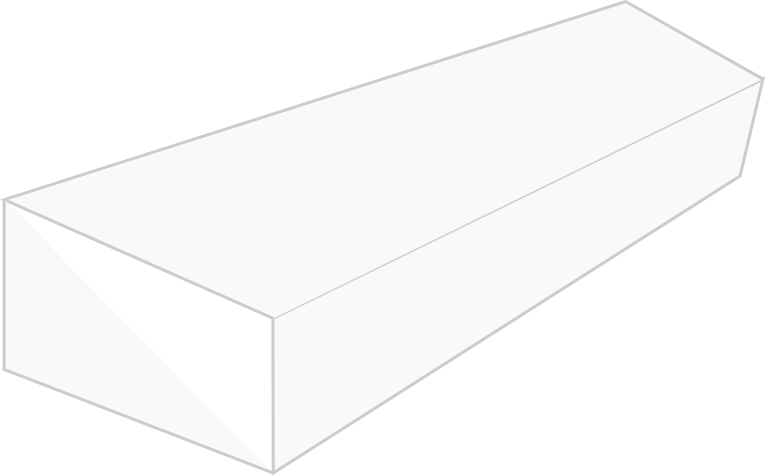
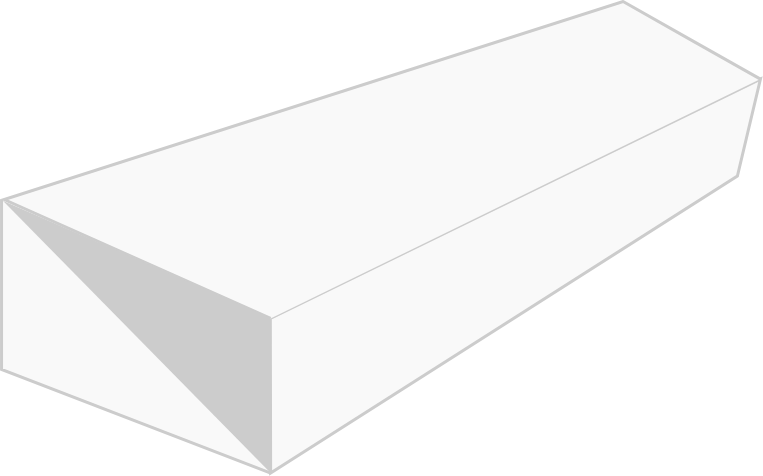
add :: parallax effect in skills and project section

diff --git a/src/App.js b/src/App.js
@@ -9,6 +9,7 @@ import me from './Images/me.jpg'
 import shape1 from './Images/shape1.png'
 import shape2 from './Images/shape2.png'
 import shape3 from './Images/shape3.png'
+import shape4 from './Images/shape4.png'
 import project1 from './Images/project1.png'
 import project2 from './Images/project2.png'
 
@@ -25,6 +26,9 @@ import 'react-toastify/dist/ReactToastify.css';
 
 // CUSTOM COMPONENTS
 import { Footer } from './Components'
+
+// DEPENDENCIES
+import { Link } from 'react-scroll'
 
 
 function App() {
@@ -56,15 +60,13 @@ function App() {
     <div className='bg'>
 
 
-      {/* <div className='menu'>
-        <div className='another'>
-          <span className='item'>ABOUT</span>
-          <span className='item'>UTUBE</span>
-          <span className='item'>SKILLS</span>
-          <span className='item'>PROJECTS</span>
-          <span className='item'>GET IN TOUCH</span>          
-        </div>
-      </div> */}
+        <section className='menu'>
+          <span className='item-wrapper'><Link smooth={true} duration={1000} to='aboutme' className='item'>ABOUT</Link></span>
+          <span className='item-wrapper'><Link smooth={true} duration={1000} to='youtube' className='item'>UTUBE</Link></span>
+          <span className='item-wrapper'><Link smooth={true} duration={1000} to='skills' className='item'>SKILLS</Link></span>
+          <span className='item-wrapper'><Link smooth={true} duration={1000} to='project' className='item'>PROJECTS</Link></span>
+          <span className='item-wrapper'><Link smooth={true} duration={1000} to='contact' className='item'>GET IN TOUCH</Link></span>
+        </section>
 
 
       <section className="hero_section">
@@ -74,7 +76,7 @@ function App() {
 
 
 
-      <section className='aboutme_section'>
+      <section id='aboutme' className='aboutme_section'>
         <RellaxWrapper speed={-2}>
           <div className='content_col'>
             <h1 className='heading'>ABOUT ME</h1>
@@ -92,7 +94,7 @@ function App() {
 
 
 
-      <section className='youtube_section'>
+      <section id='youtube' className='youtube_section'>
         <RellaxWrapper speed={2.2}><img className='img_shape img_shape_2' src={shape3} alt='shape' /></RellaxWrapper>        
         <ReactPlayer className='video' light url="https://www.youtube.com/watch?v=vgU4cB26_BU" />
         <p className='para'>I share my knowledge on my YouTube Channel where I teach Android and Ktor</p>
@@ -100,24 +102,27 @@ function App() {
 
 
 
-      <section className="skills_section">
+      <section id='skills' className="skills_section">
+        <RellaxWrapper speed={2}><img className='img_shape dimond_img_1' src={shape4} alt='shape 1 dimond' /></RellaxWrapper>
         <h1 className='heading'>SKILLS</h1>
         <div className="bar expert" data-skill="Kotlin"></div>
         <div className="bar advanced" data-skill="Android Studio"></div>
         <div className="bar intermediate" data-skill="Git GitHub"></div>
         <div className="bar basic" data-skill="Firebase"></div>
         <div className="bar learning" data-skill="Firebase"></div>
+        <RellaxWrapper speed={2}><img className='img_shape dimond_img_2' src={shape4} alt='shape 1 dimond' /></RellaxWrapper>
       </section>
+      
 
 
 
-      <section className="project_section">
+      <section id='project' className="project_section">
         <h1 className='heading'>PROJECTS</h1>
 
         <div className='row row_1'>
             <div className='desc_col'>
               <RellaxWrapper speed={-1}>
-                <h2 className='proj_name'>UpTodd</h2>
+                <RellaxWrapper speed={-0.2}><h2 className='proj_name proj_name_1'>UpTodd</h2></RellaxWrapper>
                 <h3 className='proj_designation'>Android Developer</h3>
                 <p className='para'>Built an app for the company which required critical skills such as WorkManager, Kotlin Coroutines, Room and Dependency Injection</p>
                 <div className='stack_btns'>
@@ -133,16 +138,16 @@ function App() {
 
         <div className='row row_2'>
           <div className='img_col'>
-            <img className='img_main' src={project2} alt='project 2' />
+            <img className='img_main' src={project2} alt='project 1' />
           </div>
           <div className='desc_col'>
-            <RellaxWrapper speed={-1}>
-              <h2 className='proj_name'>ASSIGNMENTS</h2>
+            <RellaxWrapper speed={-0.8}>
+              <RellaxWrapper speed={-0.2}><h2 className='proj_name proj_name_2'>Assignment</h2></RellaxWrapper>
               <h3 className='proj_designation'>Android Developer</h3>
               <p className='para'>Built an app using Firebase during the 2020 lockdown to help teachers and students to exchange assignments and solutions</p>
               <div className='stack_btns'>
                 <button>KOTLIN</button>
-                <a href='https://play.google.com/store/apps/details?id=my.app.assignments' target="_blank" rel="noreferrer"><button>VIEW ON PLAYSTORE</button></a>
+                <a href='https://play.google.com/store/apps/details?id=com.uptodd.uptoddapp' target="_blank" rel="noreferrer"><button>VIEW ON PLAYSTORE</button></a>
               </div>
             </RellaxWrapper>
           </div>
@@ -150,7 +155,7 @@ function App() {
       </section>
 
 
-      <section className='contact_section'>
+      <section id='contact' className='contact_section'>
         <RellaxWrapper speed={0.5} zIndex={-1}><img className='img_shape img_shape_4' src={shape2} alt='shape 3' /></RellaxWrapper>
         <div className='content_col'>
           <RellaxWrapper speed={0} zIndex={0}>

diff --git a/src/App.scss b/src/App.scss
@@ -54,32 +54,51 @@ body {
 
 body::-webkit-scrollbar {
     width: 10px;
-    background-color: darkgrey;
+    background-color: #acacac;
+    border: 1px #acacac solid;
     
 }
 body::-webkit-scrollbar-thumb {
-    box-shadow: inset 0 0 6px rgba(0, 0, 0, 0.3);
-    background-color: gray;
+    background-color: #1f1f1f;
+    border-radius: 1rem;
 }
 
 
-.bg {
-}
 /* MENU */
 .menu {
     position: absolute;
-    width: 100vw;
-    height: 100vh;
-    right: 10rem;
-    top: -10rem;
-    background-color: rgba(0, 128, 0, 0.329);
+    top: -4rem;
+    right: -4rem;
     text-align: right;
-
-    .another {
-        // background-color: tomato;
-        width: 20rem;
+    .item-wrapper {
+        position: relative;
+        display: inline-block;
+        &:hover:before {
+            content: '';
+            display: block;
+            height: 90%;
+            width: 100%;
+            margin-left: -3px;
+            margin-right: -3px;
+            position: absolute;
+            background: #fff;
+            transform: rotate(2deg);
+            top: -6px;
+            left: -1px;
+            border-radius: 20% 25% 20% 24%;
+            padding: 10px 0 3px 10px;
+        }
+        .item {
+            position: relative;
+            margin: 20px;
+            cursor: pointer;
+            font-weight: 500;
+        }
     }
+    
 }
+
+
 
 
 
@@ -165,6 +184,26 @@ body::-webkit-scrollbar-thumb {
         margin-bottom: 1.2rem;
         text-shadow: 2px 2px #aaa;
     }
+
+    position: relative;
+    z-index: 1000;
+    .img_shape {
+        position: absolute;
+        &.dimond_img_1 {
+            top: 250px;
+            right: 80px;
+            height: 10rem;
+            width: 10rem;
+            z-index: -1;
+        }
+        &.dimond_img_2 {
+            bottom: -800px;
+            left: 80px;
+            height: 20rem;
+            width: 20rem;
+            transform: rotate(20deg);
+        }
+    }
 }
 @keyframes load{
     from {width: 0%}
@@ -227,13 +266,15 @@ body::-webkit-scrollbar-thumb {
             margin-top: 10rem;
         }
 
+
         .desc_col {
             flex: 5;
             & h2, & h3, & p {
                 margin-bottom: 10px;
             }
             .proj_name {
-                font-size: 2.8rem;
+                font-size: 8rem;
+                color: #0000004d;
             }
             .proj_designation {
                 font-size: 1.5rem;
@@ -264,15 +305,27 @@ body::-webkit-scrollbar-thumb {
                 height: 100%;
                 width: 100%;
                 filter: grayscale(100%);
-                &:hover {
-                    filter: grayscale(0%);
-                }
-                transition: all 0.3s;
+            }
+        }
+
+        
+        &:hover {
+            .proj_name {
+                transition: all 0.2s;
+            }
+            .proj_name_1 {
+                color: #1083c659;
+            }
+            .proj_name_2 {
+                color: #c6101059;
+            }
+            .img_main {
+                filter: grayscale(0%);
+                transition: all 0.2s;
             }
         }
     }
 }
-
 
 
 /* GET IN TOUCH SECTION */

diff --git a/README.md b/README.md
@@ -3,11 +3,8 @@
 - [x] Squared resposnsive background
 - [x] parallax effect 
 - [x] Moving bg objects
-- [ ] Side menu option
+- [x] Side menu option
 - [ ] Responsive 
 - [x] Automated Email
-
-
-
-
+- [x] Add shapes + parallax effect in skills and project section
 - [x] png project images
